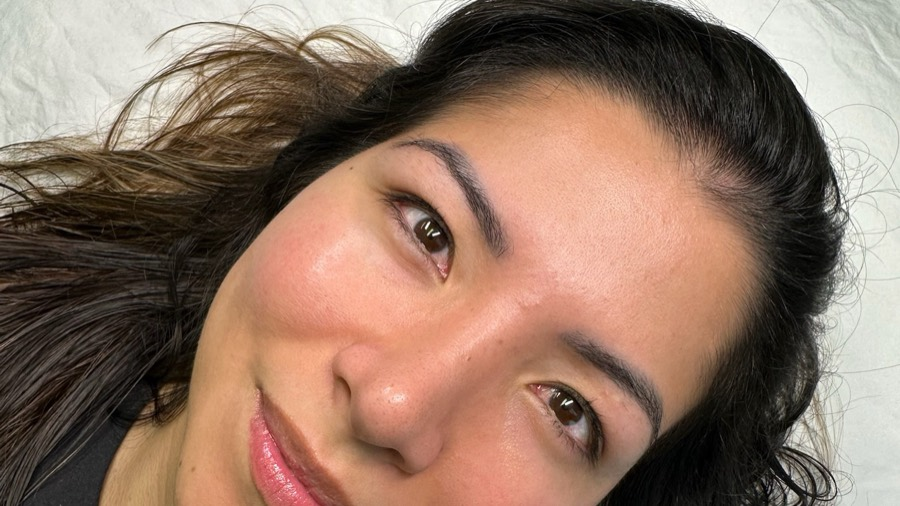
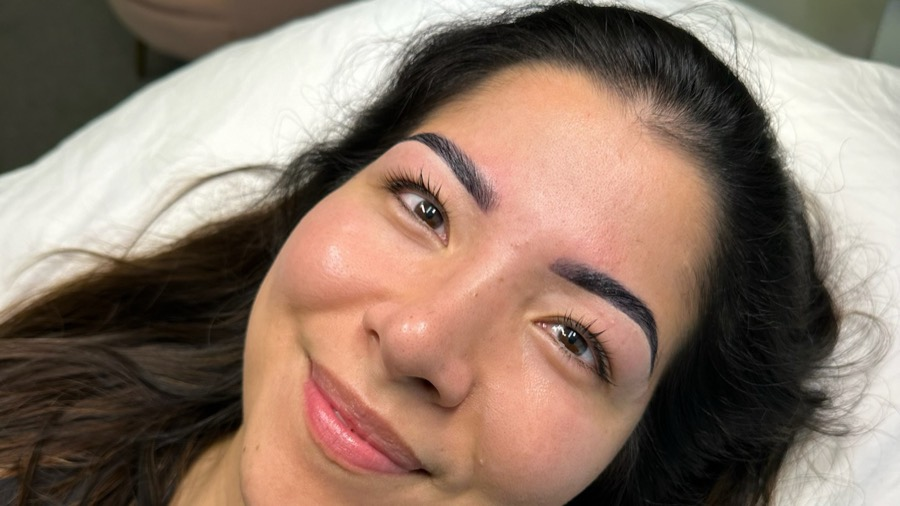
Swap service card photos: bolder brow result, lash before/after
Brows card -> IMG_9727 (defined brow result, studio visible).
Lashes card -> the before/after diptych, cropped to show the lash curl.
Alt text updated to match.

diff --git a/index.html b/index.html
@@ -828,7 +828,7 @@
 
     <div class="services-grid two-up">
       <div class="scard one" id="brows">
-        <div class="shot" style="background-image: url('img/service-brows.jpg');" role="img" aria-label="Shaped and tinted brows"></div>
+        <div class="shot" style="background-image: url('img/service-brows.jpg');" role="img" aria-label="Shaped and tinted brows, close up"></div>
         <h3>Brows</h3>
         <p>Natural enhancement that fits your features and lasts the way it should — mapped to your face, never a template.</p>
         <ul>
@@ -840,7 +840,7 @@
       </div>
 
       <div class="scard two">
-        <div class="shot" style="background-image: url('img/service-lashes.jpg');" role="img" aria-label="Lifted lashes, eyes closed"></div>
+        <div class="shot" style="background-image: url('img/service-lashes.jpg');" role="img" aria-label="Lashes before and after a lift"></div>
         <h3>Lashes</h3>
         <p>The lift you can't believe is your own lashes. Low-maintenance, mascara-optional, and made to be repeated.</p>
         <ul>
